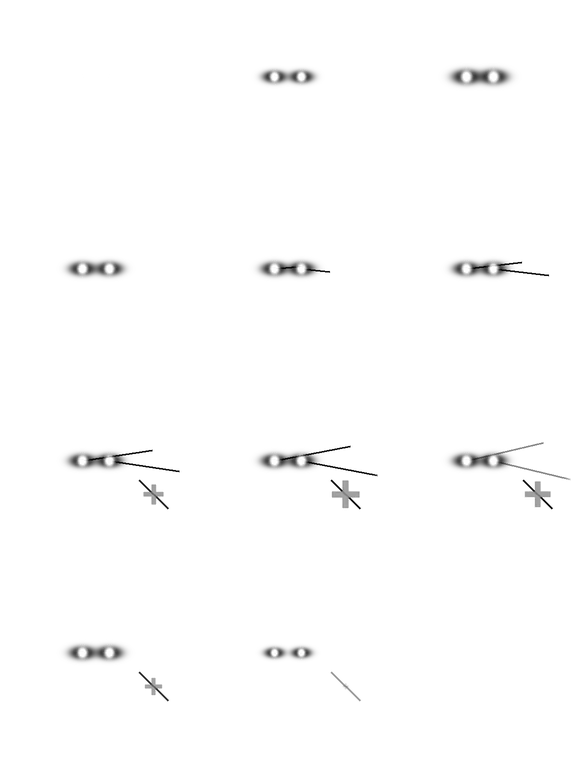
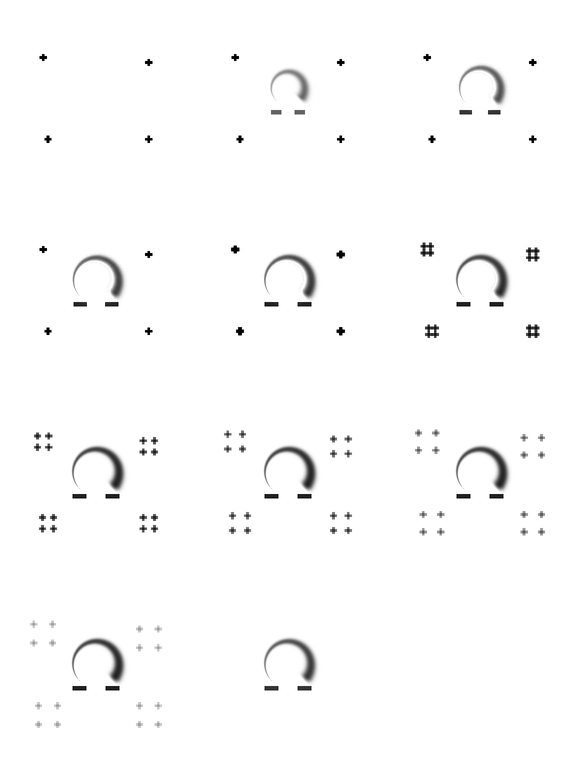
Mecânicas únicas refeitas, lote c: Justiceiro, Ultron, Senhor das Estrelas, Rocket, Darkseid, Coringa e Kaneki
A caveira e a Carga caindo, as placas montando o rosto do Ultron, a roleta dos 12%, a mina
explodindo, o Ômega e as cruzes de cura quebrando, os sorrisos gargalhando e os tentáculos
do kagune com o sangue voltando.

Claude-Session: https://claude.ai/code/session_01PMqYr7dzepWu6nnfVUTKuy

diff --git a/src/presentation/golpe-das-folhas.ts b/src/presentation/golpe-das-folhas.ts
@@ -1047,7 +1047,7 @@ export const QUADRO_DO_GOLPE: Record<string, number> = {
   mu_cordinha: 4,
   mu_corpo_metal: 1,
   mu_corpo_morto: 3,
-  mu_corpo_novo: 6,
+  mu_corpo_novo: 7,
   mu_corrente_intercepta: 6,
   mu_corte_fundo: 4,
   mu_corte_lento: 6,
@@ -1083,7 +1083,7 @@ export const QUADRO_DO_GOLPE: Record<string, number> = {
   mu_doenca_terminal: 0,
   mu_dois_lados: 1,
   mu_doombot: 6,
-  mu_doze_por_cento: 7,
+  mu_doze_por_cento: 8,
   mu_dragao_malevola: 1,
   mu_dragao_oeste: 2,
   mu_eclipse: 1,
@@ -1155,7 +1155,7 @@ export const QUADRO_DO_GOLPE: Record<string, number> = {
   mu_groot: 6,
   mu_hacker: 4,
   mu_hadouken: 4,
-  mu_hahaha: 1,
+  mu_hahaha: 0,
   mu_hakai: 5,
   mu_heroi_finn: 1,
   mu_hev: 6,
@@ -1173,7 +1173,7 @@ export const QUADRO_DO_GOLPE: Record<string, number> = {
   mu_infinito: 1,
   mu_inibidores: 5,
   mu_instinto: 1,
-  mu_interrogatorio: 2,
+  mu_interrogatorio: 3,
   mu_invento: 1,
   mu_inversao: 8,
   mu_jogado_ao_futuro: 2,
@@ -1185,7 +1185,7 @@ export const QUADRO_DO_GOLPE: Record<string, number> = {
   mu_juramento: 7,
   mu_kaboom: 6,
   mu_kage_bunshin: 5,
-  mu_kakuja: 5,
+  mu_kakuja: 1,
   mu_katsu: 6,
   mu_kikoho: 5,
   mu_kuririn_nao: 5,
@@ -1210,7 +1210,7 @@ export const QUADRO_DO_GOLPE: Record<string, number> = {
   mu_messatsu: 2,
   mu_meteoro: 6,
   mu_mil_laminas: 1,
-  mu_mina: 8,
+  mu_mina: 4,
   mu_modo_serio: 3,
   mu_mortal_kombat: 1,
   mu_morto_vivo: 4,
@@ -1302,7 +1302,7 @@ export const QUADRO_DO_GOLPE: Record<string, number> = {
   mu_seja_agua: 0,
   mu_selo_ceifador: 1,
   mu_selo_da_luz: 4,
-  mu_sem_esperanca: 1,
+  mu_sem_esperanca: 2,
   mu_sem_folego: 6,
   mu_semente: 1,
   mu_sempre_junto: 6,

diff --git a/tools/vfx/familias_v2/unicas_refeitas_c.py b/tools/vfx/familias_v2/unicas_refeitas_c.py
@@ -1,0 +1,192 @@
+"""Mecânicas únicas refeitas, lote c: o impacto conta o nome da mecânica.
+
+- mu_interrogatorio (Justiceiro): a caveira na cara do alvo, o soco e a Carga caindo em pedaços;
+- mu_corpo_novo (Ultron): as placas de metal voltando e montando o rosto, os olhos acendendo;
+- mu_doze_por_cento (Senhor das Estrelas): a roleta girando e parando na fatia de 12%;
+- mu_mina (Rocket): a mina piscando e explodindo com estilhaços;
+- mu_sem_esperanca (Darkseid): o Ômega vermelho e as cruzes de cura quebrando;
+- mu_hahaha (Coringa): os sorrisos gargalhando em volta, confete e espirais;
+- mu_kakuja (Kaneki): os quatro tentáculos do kagune e o sangue voltando para ele.
+"""
+from __future__ import annotations
+
+import math
+
+import numpy as np
+
+from .base import GRANDE, TAU, apaga, ease_in, ease_out, estrela, pulso, rel, vazio
+
+
+def _oval(cx, cy, rx, ry, n=24):
+    return [(cx + rx * math.cos(TAU * k / n), cy + ry * math.sin(TAU * k / n)) for k in range(n)]
+
+
+def _contorno(T, pts, larg):
+    return T.lines([(*a, *b, 1) for a, b in zip(pts, pts[1:] + pts[:1])], larg)
+
+
+def interrogatorio(T, t, rng):
+    G, H = vazio(T)
+    env = apaga(t, 0.86, 1)
+    surge = ease_out(rel(t, 0.0, 0.25), 2)
+    s = 0.4 + 0.6 * surge
+    cranio = _oval(0, -0.08 * s, 0.28 * s, 0.26 * s)
+    G += T.polys([(cranio, 1.0)], 0.004) * 0.45 * (1 - rel(t, 0.7, 0.9))
+    G += _contorno(T, cranio, 0.014) * (1 - rel(t, 0.7, 0.9))
+    for x in (-0.1, 0.1):
+        G += T.polys([(_oval(x * s, -0.06 * s, 0.07 * s, 0.09 * s, 12), 1.0)]) * -0.5
+    dentes = [(x * s, 0.12 * s, x * s, 0.36 * s, 1) for x in (-0.12, -0.04, 0.04, 0.12)]
+    G += T.lines(dentes, 0.025) * (1 - rel(t, 0.7, 0.9))
+    soco = pulso(t, 0.25, 0.5)
+    G += T.ring(0.15 + 0.5 * rel(t, 0.25, 0.55), 0.04) * soco * 1.3
+    H += T.gauss(0, 0, 0.06) * soco * 2.0
+    cai = rel(t, 0.45, 0.95)
+    if cai > 0:
+        for k in range(5):
+            x = -0.4 + 0.2 * k
+            y = 0.5 + 0.4 * ease_in(cai, 2) * (0.6 + 0.1 * k)
+            G += T.polys([([(x - 0.07, y - 0.025), (x + 0.07, y - 0.025), (x + 0.07, y + 0.025), (x - 0.07, y + 0.025)], 1.0)]) * (1 - cai) * 1.1
+    return np.clip(G, 0, None) * env, H * env
+
+
+def corpo_novo(T, t, rng):
+    G, H = vazio(T)
+    env = apaga(t, 0.88, 1)
+    monta = ease_out(rel(t, 0.0, 0.55), 2)
+    q = np.random.default_rng(14)
+    rosto = [(-0.22, -0.3), (0.22, -0.3), (0.26, 0.05), (0.12, 0.35), (-0.12, 0.35), (-0.26, 0.05)]
+    for k in range(10):
+        a = q.uniform(0, TAU)
+        d = 0.9 * (1 - monta)
+        alvo = rosto[k % 6]
+        cx = alvo[0] * 0.6 + d * math.cos(a)
+        cy = alvo[1] * 0.6 + d * math.sin(a)
+        placa = [(cx - 0.07, cy - 0.04), (cx + 0.07, cy - 0.05), (cx + 0.06, cy + 0.04), (cx - 0.06, cy + 0.05)]
+        G += T.polys([(placa, 1.0)], 0.003) * 0.8 * (1 - rel(t, 0.55, 0.65))
+    pronto = rel(t, 0.5, 0.7)
+    G += (T.polys([(rosto, 1.0)], 0.004) * 0.35 + _contorno(T, rosto, 0.016)) * pronto * (1 - rel(t, 0.85, 0.97))
+    olhos = pulso(t, 0.55, 0.95)
+    for s in (-1, 1):
+        olho = [(s * 0.04, -0.1), (s * 0.18, -0.13), (s * 0.15, -0.05)]
+        G += T.polys([(olho, 1.0)], 0.004) * olhos * 1.6
+        H += T.gauss(s * 0.11, -0.09, 0.03) * olhos * 1.8
+    G += T.lines([(-0.1, 0.18, 0.1, 0.18, 1)], 0.012) * pronto
+    return G * env, H * env
+
+
+def doze_por_cento(T, t, rng):
+    G, H = vazio(T)
+    env = apaga(t, 0.88, 1)
+    abre = ease_out(rel(t, 0.0, 0.2), 2)
+    r = 0.42 * abre + 0.01
+    G += T.ring(r, 0.025) * 1.1
+    fatia = T.arc_band(r * 0.6, r * 0.75, -0.38, 0.38) if r > 0.05 else T.zero()
+    G += fatia * 0.9
+    for k in range(8):
+        a = TAU * k / 8
+        G += T.lines([(0, 0, r * math.cos(a), r * math.sin(a), 1)], 0.006) * 0.5
+    gira = ease_out(rel(t, 0.1, 0.65), 3)
+    ang = TAU * 3 * gira + 0.0
+    G += T.tapered([(0, 0, 0.36 * abre * math.cos(ang), 0.36 * abre * math.sin(ang), 1)], 0.03) * 1.3
+    acerta = pulso(t, 0.62, 0.92)
+    G += T.polys([(estrela(r * 0.7, 0, 0.3 * acerta + 0.01, 0.0, 8, 0.3), 1.0)], 0.008) * acerta * 1.4
+    H += T.gauss(r * 0.7, 0, 0.06) * acerta * 2.0
+    return G * env, H * env
+
+
+def mina(T, t, rng):
+    G, H = vazio(T)
+    env = apaga(t, 0.85, 1)
+    antes = 1 - rel(t, 0.3, 0.34)
+    disco = _oval(0, 0.25, 0.22, 0.07)
+    G += (T.polys([(disco, 1.0)], 0.004) * 0.5 + _contorno(T, disco, 0.012)) * antes
+    pisca = 1.0 if int(t * 24) % 2 == 0 else 0.2
+    G += T.gauss(0, 0.2, 0.03) * pisca * antes * 1.6
+    explode = rel(t, 0.3, 0.8)
+    if explode > 0:
+        G += T.gauss(0, 0.05, 0.12 + 0.35 * explode) * (1 - explode) * 1.4
+        G += T.ring(0.1 + 0.7 * ease_out(explode, 2), 0.05 * (1 - explode) + 0.01, 0, 0.1) * (1 - explode) * 1.2
+        H += T.gauss(0, 0.05, 0.1) * pulso(t, 0.3, 0.5) * 2.2
+        q = np.random.default_rng(9)
+        for k in range(14):
+            a = q.uniform(-math.pi, 0.3)
+            d = 0.9 * ease_out(explode, 1.5) * q.uniform(0.5, 1.0)
+            G += T.gauss(d * math.cos(a), 0.1 + d * math.sin(a) + 0.4 * explode ** 2, 0.025) * (1 - explode) * 1.2
+    return G * env, H * env
+
+
+def sem_esperanca(T, t, rng):
+    G, H = vazio(T)
+    env = apaga(t, 0.86, 1)
+    surge = ease_out(rel(t, 0.0, 0.35), 2)
+    s = 0.5 + 0.5 * surge
+    G += T.arc_band(0.24 * s, 0.05, 0.75, TAU - 0.75 + 0.0, cx=0, cy=-0.08, rot=math.pi / 2) * surge * 1.2
+    G += T.lines([(-0.24 * s, 0.17, -0.1 * s, 0.17, 1), (0.1 * s, 0.17, 0.24 * s, 0.17, 1)], 0.05) * surge * 1.2
+    H += T.gauss(0, -0.08, 0.1) * pulso(t, 0.1, 0.5) * 1.0
+    quebra = rel(t, 0.35, 0.9)
+    for k, (cx, cy) in enumerate([(-0.55, -0.4), (0.55, -0.35), (-0.5, 0.45), (0.55, 0.45)]):
+        d = 0.2 * ease_out(quebra, 2)
+        for parte, (dx, dy) in enumerate([(-1, -1), (1, -1), (-1, 1), (1, 1)]):
+            x, y = cx + dx * d * 0.5, cy + dy * d * 0.5
+            G += T.polys([([(x - 0.035, y - 0.012), (x + 0.035, y - 0.012), (x + 0.035, y + 0.012), (x - 0.035, y + 0.012)], 1.0)]) * (1 - quebra) * 0.9
+            G += T.polys([([(x - 0.012, y - 0.035), (x + 0.012, y - 0.035), (x + 0.012, y + 0.035), (x - 0.012, y + 0.035)], 1.0)]) * (1 - quebra) * 0.9
+    return G * env, H * env
+
+
+def hahaha(T, t, rng):
+    G, H = vazio(T)
+    env = apaga(t, 0.86, 1)
+    for k in range(5):
+        surge = ease_out(rel(t, 0.05 * k, 0.3 + 0.05 * k), 2)
+        if surge <= 0:
+            continue
+        a = TAU * k / 5 + 0.5
+        d = 0.15 + 0.45 * surge
+        cx, cy = d * math.cos(a), d * math.sin(a) * 0.8
+        sacode = 0.02 * math.sin(TAU * (t * 8 + k * 0.3))
+        larg = 0.16 * surge
+        G += T.arc_band(larg, 0.022, 0.3, math.pi - 0.3, cx=cx, cy=cy - 0.04 + sacode) * 1.2
+        G += T.lines([(cx - larg * 0.8 + 0.06 * j, cy + 0.03 + sacode, cx - larg * 0.8 + 0.06 * j, cy + 0.08 + sacode, 1) for j in range(int(larg * 26))], 0.008) * 0.7
+        G += T.gauss(cx - 0.05, cy - 0.06 + sacode, 0.015) * 1.2 + T.gauss(cx + 0.05, cy - 0.06 + sacode, 0.015) * 1.2
+    q = np.random.default_rng(3)
+    confete = [(q.uniform(-0.8, 0.8), -0.8 + 1.6 * ((t * 0.9 + q.uniform(0, 1)) % 1), 1.0) for _ in range(22)]
+    G += T.splats(confete, 0.016) * (1 - rel(t, 0.75, 0.95))
+    G += T.arc_band(0.08 + 0.3 * t, 0.015, t * 9, t * 9 + 4, cx=0, cy=0) * 0.7 * (1 - rel(t, 0.7, 0.9))
+    return G * env, H * env
+
+
+def kakuja(T, t, rng):
+    G, H = vazio(T)
+    env = apaga(t, 0.86, 1)
+    cresce = ease_out(rel(t, 0.0, 0.45), 2)
+    for k, base in enumerate((-2.6, -2.1, -1.0, -0.5)):
+        pts = []
+        for i in range(14):
+            f = i / 13 * cresce
+            ang = base + 0.9 * f * (1 if k < 2 else -1) + 0.15 * math.sin(TAU * (t * 1.5 + i * 0.07))
+            r = 0.1 + 0.85 * f
+            pts.append((r * math.cos(ang) * (1.0 if k < 2 else 1.0), 0.2 + r * math.sin(ang)))
+        G += T.polyline(pts, 0.05 * (1 - 0.3 * cresce) + 0.015) * 1.0
+        H += T.polyline(pts, 0.012) * 0.4
+    volta = rel(t, 0.35, 0.9)
+    if volta > 0:
+        q = np.random.default_rng(2)
+        gotas = []
+        for _ in range(16):
+            a = q.uniform(0, TAU)
+            d = 0.8 * (1 - ease_in(((volta + q.uniform(0, 0.5)) % 1), 1.5))
+            gotas.append((d * math.cos(a), 0.2 + d * math.sin(a), 1.0))
+        G += T.splats(gotas, 0.02) * 1.1 * (1 - rel(t, 0.8, 0.95))
+        G += T.gauss(0, 0.2, 0.12) * pulso(t, 0.6, 0.95) * 0.9
+    return G * env, H * env
+
+
+REGISTRO = [
+    ("mu_interrogatorio", interrogatorio, GRANDE, "Justiceiro · a caveira, o soco e a Carga caindo", False),
+    ("mu_corpo_novo", corpo_novo, GRANDE, "Ultron · as placas montando o rosto e os olhos acendendo", False),
+    ("mu_doze_por_cento", doze_por_cento, GRANDE, "Senhor das Estrelas · a roleta parando nos 12%", False),
+    ("mu_mina", mina, GRANDE, "Rocket · a mina piscando e explodindo", False),
+    ("mu_sem_esperanca", sem_esperanca, GRANDE, "Darkseid · o Ômega e as cruzes de cura quebrando", False),
+    ("mu_hahaha", hahaha, GRANDE, "Coringa · os sorrisos gargalhando, confete e espirais", False),
+    ("mu_kakuja", kakuja, GRANDE, "Kaneki · os tentáculos do kagune e o sangue voltando", False),
+]

diff --git a/tools/vfx/familias_v2/__init__.py b/tools/vfx/familias_v2/__init__.py
@@ -5,7 +5,7 @@ Cada módulo temático tem uma lista REGISTRO de (nome, função, tela,
 descrição, laço). generate_families.py registra todas junto das originais;
 saem na mesma pasta (public/assets/vfx/familias), no mesmo formato.
 """
-from . import unicas_voo, unicas_refeitas_a, unicas_refeitas_b
+from . import unicas_voo, unicas_refeitas_a, unicas_refeitas_b, unicas_refeitas_c
 from . import apoio, assinaturas, corpo, cortes, elementos, energia, especiais, invocacoes, jeitos, magia, projeteis
 from . import cloud_e_dk, madara, naruto_ikki_luffy, ninjas_e_detetives, aang_sakura, aiolia_arthas, ciclope_shaka_mummra, sasuke_aranha_trunks_kuririn, omniman_guts_rick, rodada01, rodada02, rodada03, rodada04, rodada05, rodada06, rodada07, rodada08, rodada09, rodada10, rodada11, rodada12, rodada13, rodada14, rodada15, rodada16, rodada17, rodada18, rodada19, rodada20, rodada21, rodada22, rodada23, rodada24, rodada25, rodada26, rodada27, rodada28, rodada29, rodada30, rodada31, rodada32, rodada33, rodada34, rodada35, rodada36, rodada37, rodada38, rodada39, rodada40, rodada41, rodada42, rodada43, rodada44, rodada45, rodada46, rodada47, rodada48, rodada49, rodada50, rodada51, rodada52, rodada53, rodada54, rodada55, rodada56, rodada57, rodada58, rodada59, rodada60, rodada61, rodada62, rodada63, rodada64, unicas_a, unicas_b, unicas_c, unicas_d, unicas_e, unicas_f, unicas_g, unicas_h, unicas_i, unicas_j, unicas_k, unicas_l, unicas_m, unicas_n, unicas_o, unicas_p, unicas_q, unicas_r, rodada06, renascer_proprio, reviver_proprio, charizard_megaman, hulk, piccolo, superman_hyoga, toph_e_gon, viagens
 from . import basicos_a, basicos_b, basicos_c, basicos_d, basicos_e, basicos_f, basicos_g, basicos_h, basicos_i, basicos_j, basicos_k, basicos_l, basicos_m, basicos_n, basicos_o, basicos_p, basicos_q, basicos_r, basicos_s, basicos_t, basicos_u, basicos_v, basicos_w, basicos_x, basicos_y, basicos_z, basicos_za, basicos_zb, basicos_zc
@@ -17,6 +17,6 @@ def registra_todas(registra):
         for nome, fn, tela, descricao, laco in modulo.REGISTRO:
             registra(nome, fn, tela, descricao, laco=laco)
     # as mecânicas refeitas entram por último e substituem as folhas antigas de mesmo nome
-    for modulo in (unicas_refeitas_a, unicas_refeitas_b):
+    for modulo in (unicas_refeitas_a, unicas_refeitas_b, unicas_refeitas_c):
         for nome, fn, tela, descricao, laco in modulo.REGISTRO:
             registra(nome, fn, tela, descricao, laco=laco)
